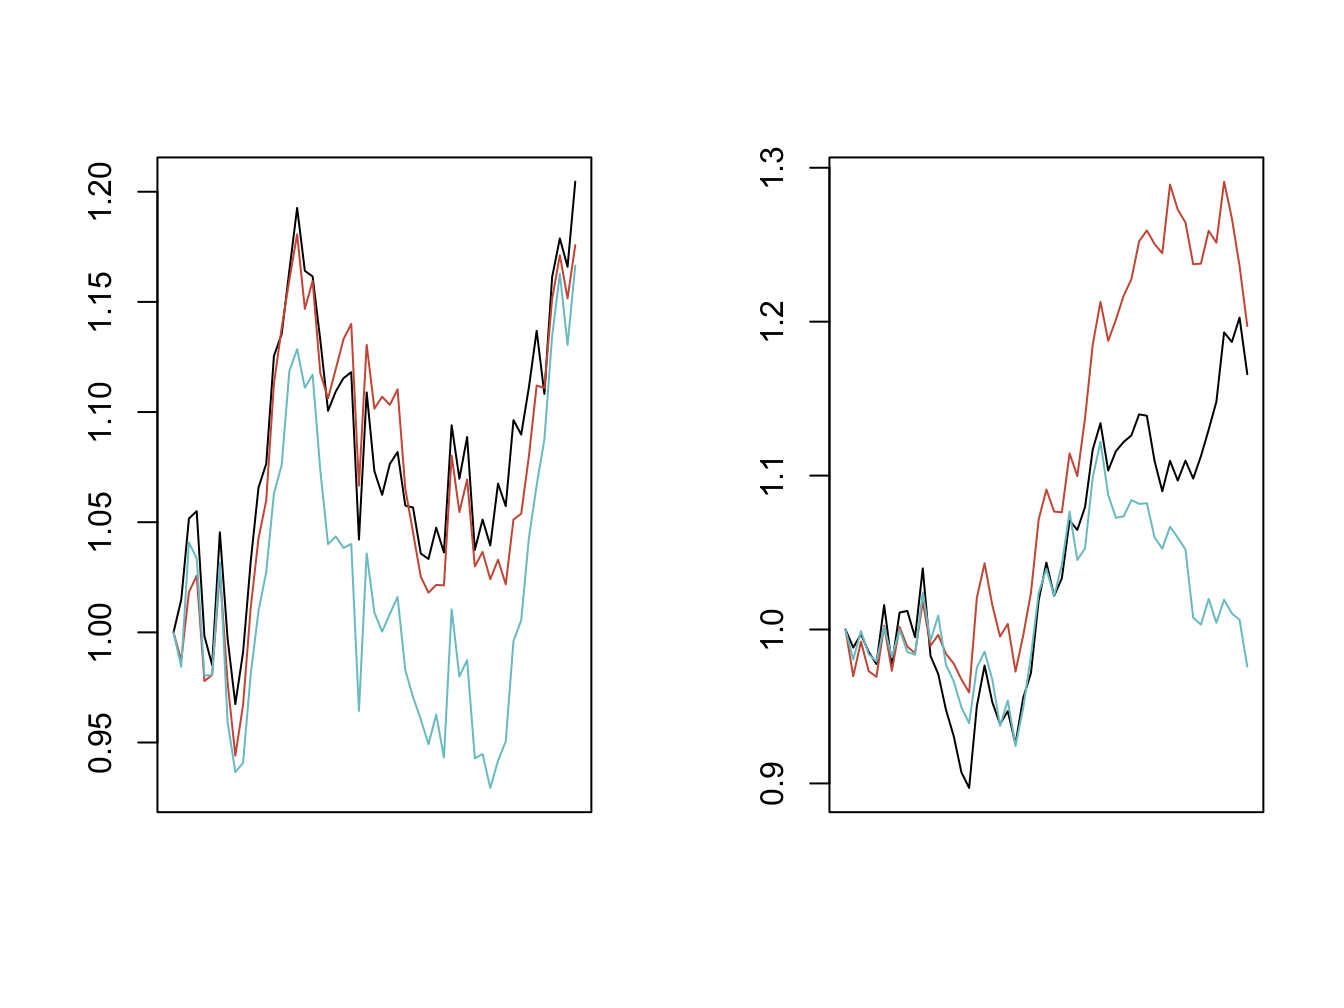
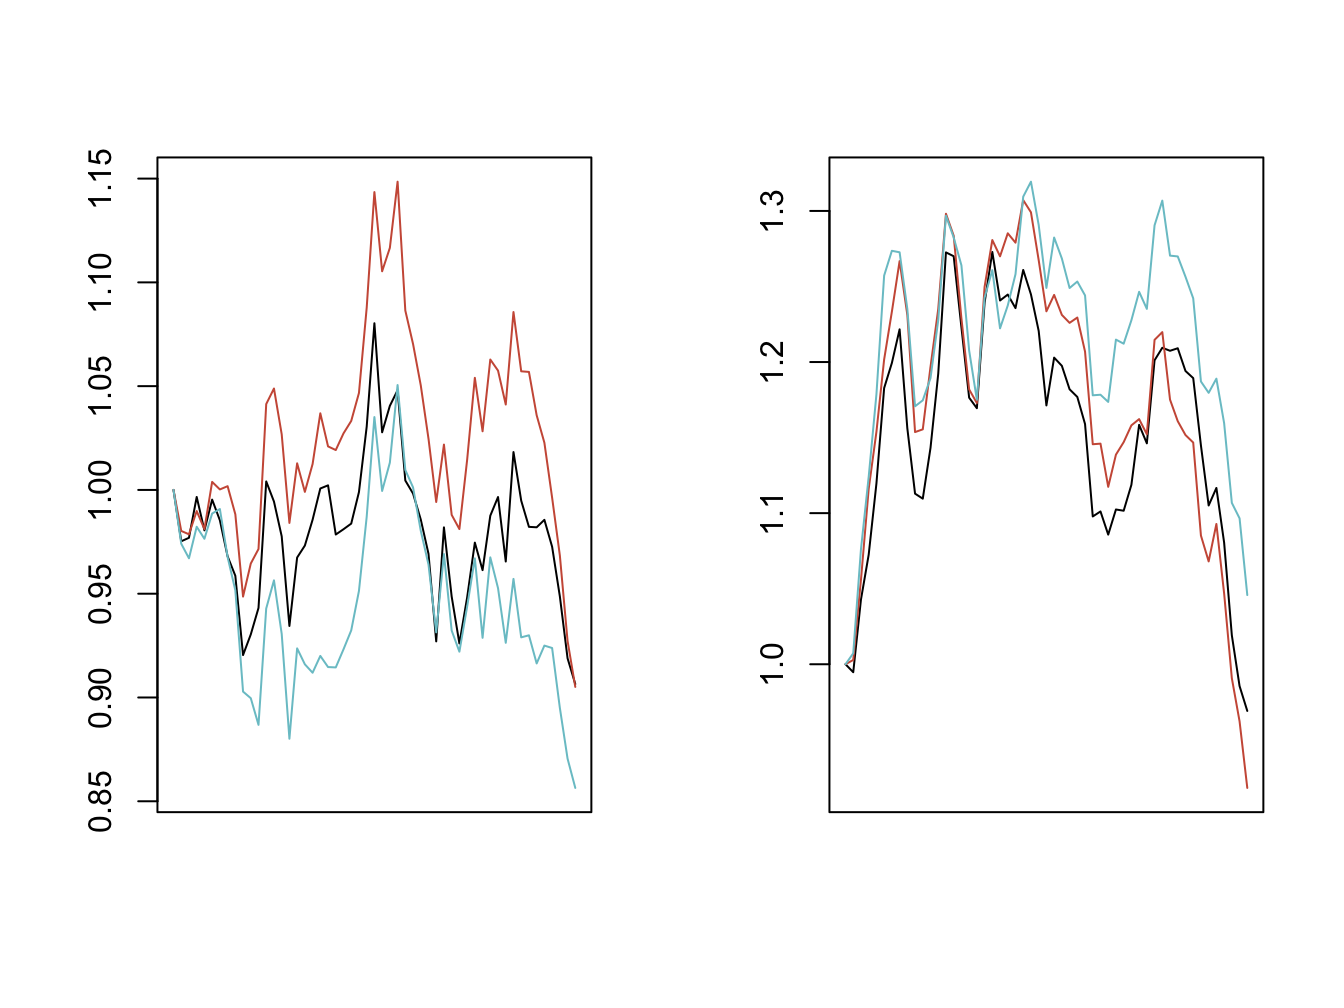
Emphasis content source
Bold and coloured

diff --git a/docs/index.html b/docs/index.html
@@ -25,7 +25,7 @@
 
 
 
-<meta name="date" content="2017-03-13">
+<meta name="date" content="2017-03-14">
 
   <meta name="viewport" content="width=device-width, initial-scale=1">
   <meta name="apple-mobile-web-app-capable" content="yes">
@@ -100,9 +100,9 @@ code > span.in { color: #60a0b0; font-weight: bold; font-style: italic; } /* Inf
       <nav role="navigation">
 
 <ul class="summary">
-<li><a href="./">Unless otherwise stated,<br/>
-all information here are<br/>
-derived from public sources</a></li>
+<li><a href="./"><font color="SLATEGRAY"><strong>UNLESS OTHERWISE STATED,<br/>
+ALL INFORMATION HERE ARE<br/>
+FROM PUBLIC SOURCES</strong></font></a></li>
 
 <li class="divider"></li>
 <li class="chapter" data-level="1" data-path="index.html"><a href="index.html"><i class="fa fa-check"></i><b>1</b> Preface</a><ul>
@@ -166,7 +166,7 @@ derived from public sources</a></li>
             <section class="normal" id="section-">
 <div id="header">
 <h1 class="title">Notes</h1>
-<h4 class="date"><em>2017-03-13</em></h4>
+<h4 class="date"><em>2017-03-14</em></h4>
 </div>
 <div id="preface" class="section level1">
 <h1><span class="header-section-number">Chapter 1</span> Preface</h1>
@@ -180,7 +180,7 @@ derived from public sources</a></li>
   sT
 }
 <span class="kw">cat</span>(<span class="st">&quot;Spot after 1 year: &quot;</span>, <span class="kw">aSampleSpotT</span>(<span class="dv">1</span>, <span class="fl">0.04</span>, <span class="fl">0.01</span>, <span class="dv">0</span>, <span class="fl">0.2</span>, <span class="dv">1</span>, <span class="dv">1</span>))</code></pre></div>
-<pre><code>## Spot after 1 year:  0.9406981</code></pre>
+<pre><code>## Spot after 1 year:  0.9821138</code></pre>
 <p>If required it is also possible to iterate over several consecutive periods to generate a path. For example, instead of sampling the spot after 1 year, we sample the spot after 1 week, then use the spot at week 1 to sample the spot at week 2, and so on until we arrive at the final observation as required. By repeatedly and independently generating many such paths we can visualise how the stock diffusion looks like.</p>
 <p>Assume the stock drifts at 0% per annum, i.e. <span class="math inline">\(r - d - q = 0\)</span>, and the stock has constant volatility of 20% per annum, we plot several paths or trajectories. The initial spot price is normalised to 1. Each trajectory below consist of 52 consecutive weekly observations. See Figure <a href="index.html#fig:manyPath-compute-traj">1.1</a>:</p>
 <div class="sourceCode"><pre class="sourceCode r"><code class="sourceCode r">nSteps =<span class="st"> </span><span class="dv">52</span> <span class="co"># weekly obs</span>
@@ -201,10 +201,10 @@ for (i in <span class="dv">2</span>:(nSteps<span class="dv">+1</span>))
 <tbody>
 <tr class="odd">
 <td>Spot price</td>
-<td align="right">1.010354</td>
-<td align="right">1.008503</td>
-<td align="right">1.027878</td>
-<td align="right">1.046089</td>
+<td align="right">1.024129</td>
+<td align="right">1.001771</td>
+<td align="right">1.025383</td>
+<td align="right">0.9895311</td>
 </tr>
 </tbody>
 </table>
@@ -300,24 +300,24 @@ for (i in <span class="dv">2</span>:(nSteps<span class="dv">+1</span>))
 <tbody>
 <tr class="odd">
 <td>Undl 1</td>
-<td align="right">1.0148149</td>
-<td align="right">1.051679</td>
-<td align="right">1.055015</td>
-<td align="right">0.9982919</td>
+<td align="right">0.9752654</td>
+<td align="right">0.9769363</td>
+<td align="right">0.9966085</td>
+<td align="right">0.9805188</td>
 </tr>
 <tr class="even">
 <td>Undl 2</td>
-<td align="right">0.9873323</td>
-<td align="right">1.018286</td>
-<td align="right">1.025675</td>
-<td align="right">0.9778886</td>
+<td align="right">0.9802384</td>
+<td align="right">0.9786300</td>
+<td align="right">0.9898269</td>
+<td align="right">0.9811299</td>
 </tr>
 <tr class="odd">
 <td>Undl 3</td>
-<td align="right">0.9844207</td>
-<td align="right">1.040822</td>
-<td align="right">1.033495</td>
-<td align="right">0.9804207</td>
+<td align="right">0.9740695</td>
+<td align="right">0.9670629</td>
+<td align="right">0.9822644</td>
+<td align="right">0.9764641</td>
 </tr>
 </tbody>
 </table>
@@ -331,9 +331,10 @@ Figure 1.2: Two separate simulations of the paths of the underlyings in the bask
 <div id="worstof" class="section level3">
 <h3><span class="header-section-number">1.1.1</span> Worst-of</h3>
 <p>From a basket of underlyings, we could choose the lowest performing underlying and call it the worst-of underlying. Making this choice over the entire tenor of the product we can visual what a worst-of trajectory looks like.</p>
-<div class="sourceCode"><pre class="sourceCode r"><code class="sourceCode r">corrLow =<span class="st"> </span><span class="kw">matrix</span>(<span class="kw">c</span>(<span class="fl">1.0</span>, <span class="fl">0.0</span>, <span class="fl">0.1</span>, 
+<div class="sourceCode"><pre class="sourceCode r"><code class="sourceCode r"><span class="kw">set.seed</span>(<span class="dv">999</span>)
+corrLow =<span class="st"> </span><span class="kw">matrix</span>(<span class="kw">c</span>(<span class="fl">1.0</span>, <span class="fl">0.0</span>, <span class="fl">0.1</span>, 
                 <span class="fl">0.0</span>, <span class="fl">1.0</span>, <span class="fl">0.0</span>,
-                <span class="fl">0.0</span>, <span class="fl">0.0</span>, <span class="fl">1.0</span>), 
+                <span class="fl">0.1</span>, <span class="fl">0.0</span>, <span class="fl">1.0</span>), 
               <span class="dt">nrow =</span> <span class="dv">3</span>,
               <span class="dt">dimnames =</span> <span class="kw">list</span>(<span class="kw">c</span>(<span class="st">&quot;Undl 1&quot;</span>, <span class="st">&quot;Undl 2&quot;</span>, <span class="st">&quot;Undl 3&quot;</span>), 
                               <span class="kw">c</span>(<span class="st">&quot;Undl 1&quot;</span>, <span class="st">&quot;Undl 2&quot;</span>, <span class="st">&quot;Undl 3&quot;</span>)))
@@ -345,12 +346,12 @@ for (i in <span class="dv">2</span>:(nSteps<span class="dv">+1</span>))
 <p>In this stylised result we see how the worst-of underlying may differ over time.</p>
 <div class="sourceCode"><pre class="sourceCode r"><code class="sourceCode r"><span class="kw">print</span>(corrTraj2[,<span class="dv">2</span>:<span class="dv">5</span>]) <span class="co"># First 4 weekly close of 3 less correlated undls</span></code></pre></div>
 <pre><code>##           [,1]      [,2]      [,3]      [,4]
-## [1,] 1.1135548 1.0202253 0.9835093 1.0333351
-## [2,] 1.0472104 1.0016814 0.9452105 0.9230915
-## [3,] 0.9400727 0.8563856 0.8384821 0.8305874</code></pre>
+## [1,] 0.9829799 0.9962827 0.8963073 0.8409755
+## [2,] 0.9283503 0.9127741 0.8495281 0.9129363
+## [3,] 1.0416297 1.0095515 0.9456666 0.9453241</code></pre>
 <div class="sourceCode"><pre class="sourceCode r"><code class="sourceCode r">woTraj =<span class="st"> </span><span class="kw">apply</span>(corrTraj2, <span class="dv">2</span>, min)
 <span class="kw">print</span>(woTraj[<span class="dv">2</span>:<span class="dv">5</span>]) <span class="co"># First 4 weekly close of the worst &quot;underlying&quot;</span></code></pre></div>
-<pre><code>## [1] 0.9400727 0.8563856 0.8384821 0.8305874</code></pre>
+<pre><code>## [1] 0.9283503 0.9127741 0.8495281 0.8409755</code></pre>
 <p>Let’s plot one sample of all underlying paths. On the right we overlay the worst-of “underlying” in blue while greying out the actual underlying paths. See Figure <a href="index.html#fig:wo-traj-plot">1.3</a>:</p>
 <div class="sourceCode"><pre class="sourceCode r"><code class="sourceCode r"><span class="kw">par</span>(<span class="dt">mfrow =</span> <span class="kw">c</span>(<span class="dv">1</span>, <span class="dv">2</span>))
 <span class="kw">plot</span>(corrTraj2[<span class="dv">1</span>,], <span class="dt">type =</span> <span class="st">&quot;l&quot;</span>,
@@ -383,12 +384,12 @@ Figure 1.3: A basket of 3 underlyings (in grey) and the worst-of underlying (in 
 <p>Unlike the worst-of call option, a best-of call is more expensive than the average of call. However, if you have a bearish view, buying a best-of put is much more affordable. Likewise, <em>selling</em> a best-of call brings the investor much more premium.</p>
 <div class="sourceCode"><pre class="sourceCode r"><code class="sourceCode r"><span class="kw">print</span>(corrTraj2[,<span class="dv">1</span>:<span class="dv">5</span>]) <span class="co"># First 5 weekly close of 3 correlated undls</span></code></pre></div>
 <pre><code>##      [,1]      [,2]      [,3]      [,4]      [,5]
-## [1,]    1 1.1135548 1.0202253 0.9835093 1.0333351
-## [2,]    1 1.0472104 1.0016814 0.9452105 0.9230915
-## [3,]    1 0.9400727 0.8563856 0.8384821 0.8305874</code></pre>
+## [1,]    1 0.9829799 0.9962827 0.8963073 0.8409755
+## [2,]    1 0.9283503 0.9127741 0.8495281 0.9129363
+## [3,]    1 1.0416297 1.0095515 0.9456666 0.9453241</code></pre>
 <div class="sourceCode"><pre class="sourceCode r"><code class="sourceCode r">boTraj =<span class="st"> </span><span class="kw">apply</span>(corrTraj2, <span class="dv">2</span>, max)
 <span class="kw">print</span>(woTraj[<span class="dv">1</span>:<span class="dv">5</span>]) <span class="co"># First 5 weekly close of the worst &quot;underlying&quot;</span></code></pre></div>
-<pre><code>## [1] 1.0000000 0.9400727 0.8563856 0.8384821 0.8305874</code></pre>
+<pre><code>## [1] 1.0000000 0.9283503 0.9127741 0.8495281 0.8409755</code></pre>
 <p>Again, we see there is no need for the best-of “underlying” to be the same underlying in the basket from start to end of the product tenor. See Figure <a href="index.html#fig:bo-traj-plot">1.4</a>:</p>
 <div class="sourceCode"><pre class="sourceCode r"><code class="sourceCode r"><span class="kw">par</span>(<span class="dt">mfrow =</span> <span class="kw">c</span>(<span class="dv">1</span>, <span class="dv">2</span>))
 <span class="kw">plot</span>(corrTraj2[<span class="dv">1</span>,], <span class="dt">type =</span> <span class="st">&quot;l&quot;</span>,

diff --git a/docs/lsmc.html b/docs/lsmc.html
@@ -25,7 +25,7 @@
 
 
 
-<meta name="date" content="2017-03-13">
+<meta name="date" content="2017-03-14">
 
   <meta name="viewport" content="width=device-width, initial-scale=1">
   <meta name="apple-mobile-web-app-capable" content="yes">
@@ -100,9 +100,9 @@ code > span.in { color: #60a0b0; font-weight: bold; font-style: italic; } /* Inf
       <nav role="navigation">
 
 <ul class="summary">
-<li><a href="./">Unless otherwise stated,<br/>
-all information here are<br/>
-derived from public sources</a></li>
+<li><a href="./"><font color="SLATEGRAY"><strong>UNLESS OTHERWISE STATED,<br/>
+ALL INFORMATION HERE ARE<br/>
+FROM PUBLIC SOURCES</strong></font></a></li>
 
 <li class="divider"></li>
 <li class="chapter" data-level="1" data-path="index.html"><a href="index.html"><i class="fa fa-check"></i><b>1</b> Preface</a><ul>

diff --git a/docs/payoff.html b/docs/payoff.html
@@ -25,7 +25,7 @@
 
 
 
-<meta name="date" content="2017-03-13">
+<meta name="date" content="2017-03-14">
 
   <meta name="viewport" content="width=device-width, initial-scale=1">
   <meta name="apple-mobile-web-app-capable" content="yes">
@@ -100,9 +100,9 @@ code > span.in { color: #60a0b0; font-weight: bold; font-style: italic; } /* Inf
       <nav role="navigation">
 
 <ul class="summary">
-<li><a href="./">Unless otherwise stated,<br/>
-all information here are<br/>
-derived from public sources</a></li>
+<li><a href="./"><font color="SLATEGRAY"><strong>UNLESS OTHERWISE STATED,<br/>
+ALL INFORMATION HERE ARE<br/>
+FROM PUBLIC SOURCES</strong></font></a></li>
 
 <li class="divider"></li>
 <li class="chapter" data-level="1" data-path="index.html"><a href="index.html"><i class="fa fa-check"></i><b>1</b> Preface</a><ul>

diff --git a/docs/quirk.html b/docs/quirk.html
@@ -25,7 +25,7 @@
 
 
 
-<meta name="date" content="2017-03-13">
+<meta name="date" content="2017-03-14">
 
   <meta name="viewport" content="width=device-width, initial-scale=1">
   <meta name="apple-mobile-web-app-capable" content="yes">
@@ -100,9 +100,9 @@ code > span.in { color: #60a0b0; font-weight: bold; font-style: italic; } /* Inf
       <nav role="navigation">
 
 <ul class="summary">
-<li><a href="./">Unless otherwise stated,<br/>
-all information here are<br/>
-derived from public sources</a></li>
+<li><a href="./"><font color="SLATEGRAY"><strong>UNLESS OTHERWISE STATED,<br/>
+ALL INFORMATION HERE ARE<br/>
+FROM PUBLIC SOURCES</strong></font></a></li>
 
 <li class="divider"></li>
 <li class="chapter" data-level="1" data-path="index.html"><a href="index.html"><i class="fa fa-check"></i><b>1</b> Preface</a><ul>

diff --git a/docs/refer.html b/docs/refer.html
@@ -25,7 +25,7 @@
 
 
 
-<meta name="date" content="2017-03-13">
+<meta name="date" content="2017-03-14">
 
   <meta name="viewport" content="width=device-width, initial-scale=1">
   <meta name="apple-mobile-web-app-capable" content="yes">
@@ -100,9 +100,9 @@ code > span.in { color: #60a0b0; font-weight: bold; font-style: italic; } /* Inf
       <nav role="navigation">
 
 <ul class="summary">
-<li><a href="./">Unless otherwise stated,<br/>
-all information here are<br/>
-derived from public sources</a></li>
+<li><a href="./"><font color="SLATEGRAY"><strong>UNLESS OTHERWISE STATED,<br/>
+ALL INFORMATION HERE ARE<br/>
+FROM PUBLIC SOURCES</strong></font></a></li>
 
 <li class="divider"></li>
 <li class="chapter" data-level="1" data-path="index.html"><a href="index.html"><i class="fa fa-check"></i><b>1</b> Preface</a><ul>

diff --git a/docs/sensi.html b/docs/sensi.html
@@ -25,7 +25,7 @@
 
 
 
-<meta name="date" content="2017-03-13">
+<meta name="date" content="2017-03-14">
 
   <meta name="viewport" content="width=device-width, initial-scale=1">
   <meta name="apple-mobile-web-app-capable" content="yes">
@@ -100,9 +100,9 @@ code > span.in { color: #60a0b0; font-weight: bold; font-style: italic; } /* Inf
       <nav role="navigation">
 
 <ul class="summary">
-<li><a href="./">Unless otherwise stated,<br/>
-all information here are<br/>
-derived from public sources</a></li>
+<li><a href="./"><font color="SLATEGRAY"><strong>UNLESS OTHERWISE STATED,<br/>
+ALL INFORMATION HERE ARE<br/>
+FROM PUBLIC SOURCES</strong></font></a></li>
 
 <li class="divider"></li>
 <li class="chapter" data-level="1" data-path="index.html"><a href="index.html"><i class="fa fa-check"></i><b>1</b> Preface</a><ul>

diff --git a/docs/volsurf.html b/docs/volsurf.html
@@ -25,7 +25,7 @@
 
 
 
-<meta name="date" content="2017-03-13">
+<meta name="date" content="2017-03-14">
 
   <meta name="viewport" content="width=device-width, initial-scale=1">
   <meta name="apple-mobile-web-app-capable" content="yes">
@@ -100,9 +100,9 @@ code > span.in { color: #60a0b0; font-weight: bold; font-style: italic; } /* Inf
       <nav role="navigation">
 
 <ul class="summary">
-<li><a href="./">Unless otherwise stated,<br/>
-all information here are<br/>
-derived from public sources</a></li>
+<li><a href="./"><font color="SLATEGRAY"><strong>UNLESS OTHERWISE STATED,<br/>
+ALL INFORMATION HERE ARE<br/>
+FROM PUBLIC SOURCES</strong></font></a></li>
 
 <li class="divider"></li>
 <li class="chapter" data-level="1" data-path="index.html"><a href="index.html"><i class="fa fa-check"></i><b>1</b> Preface</a><ul>
